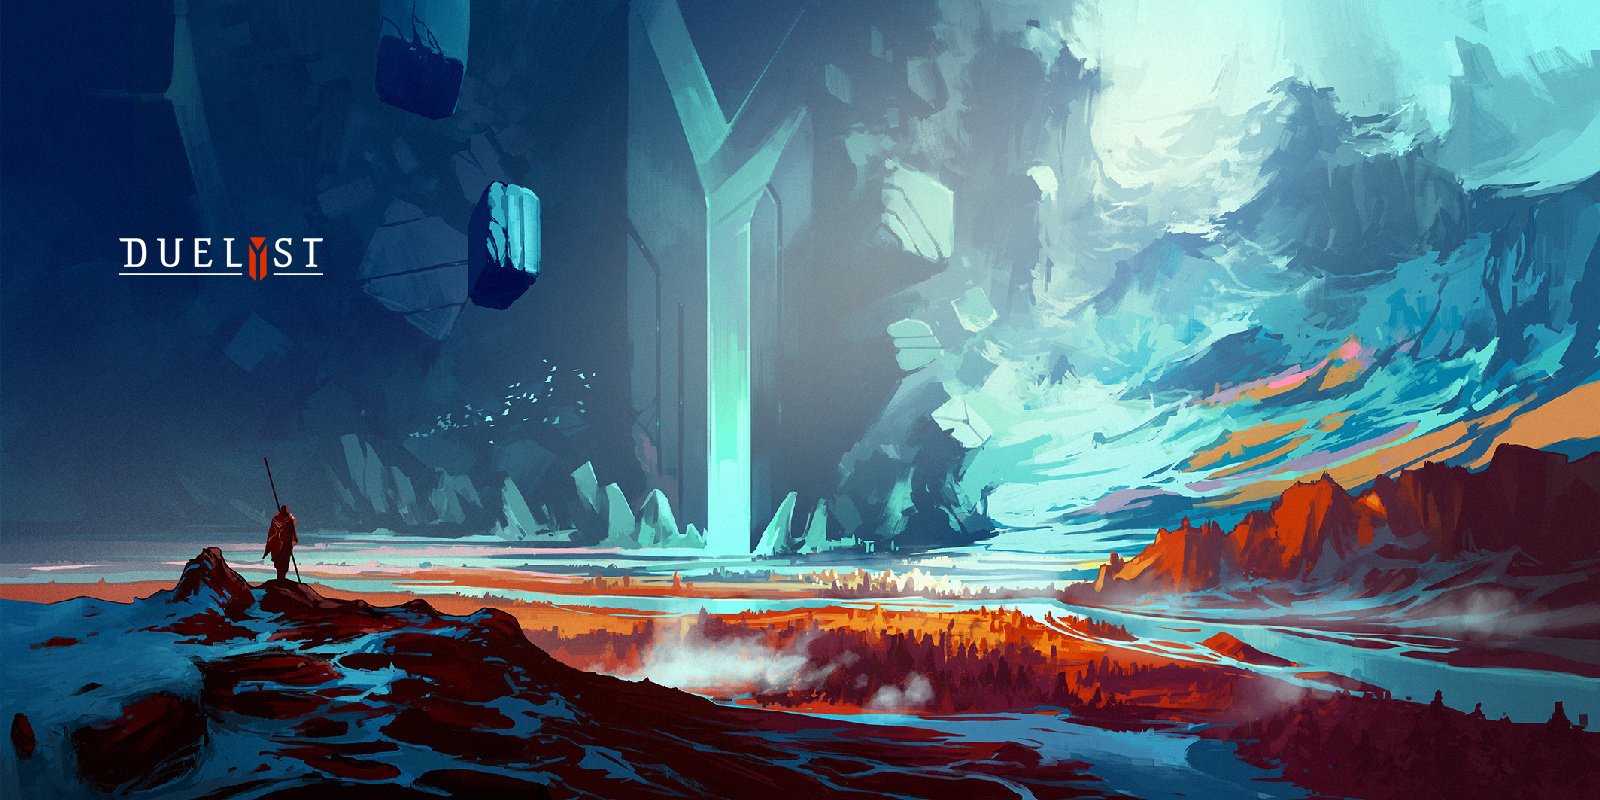
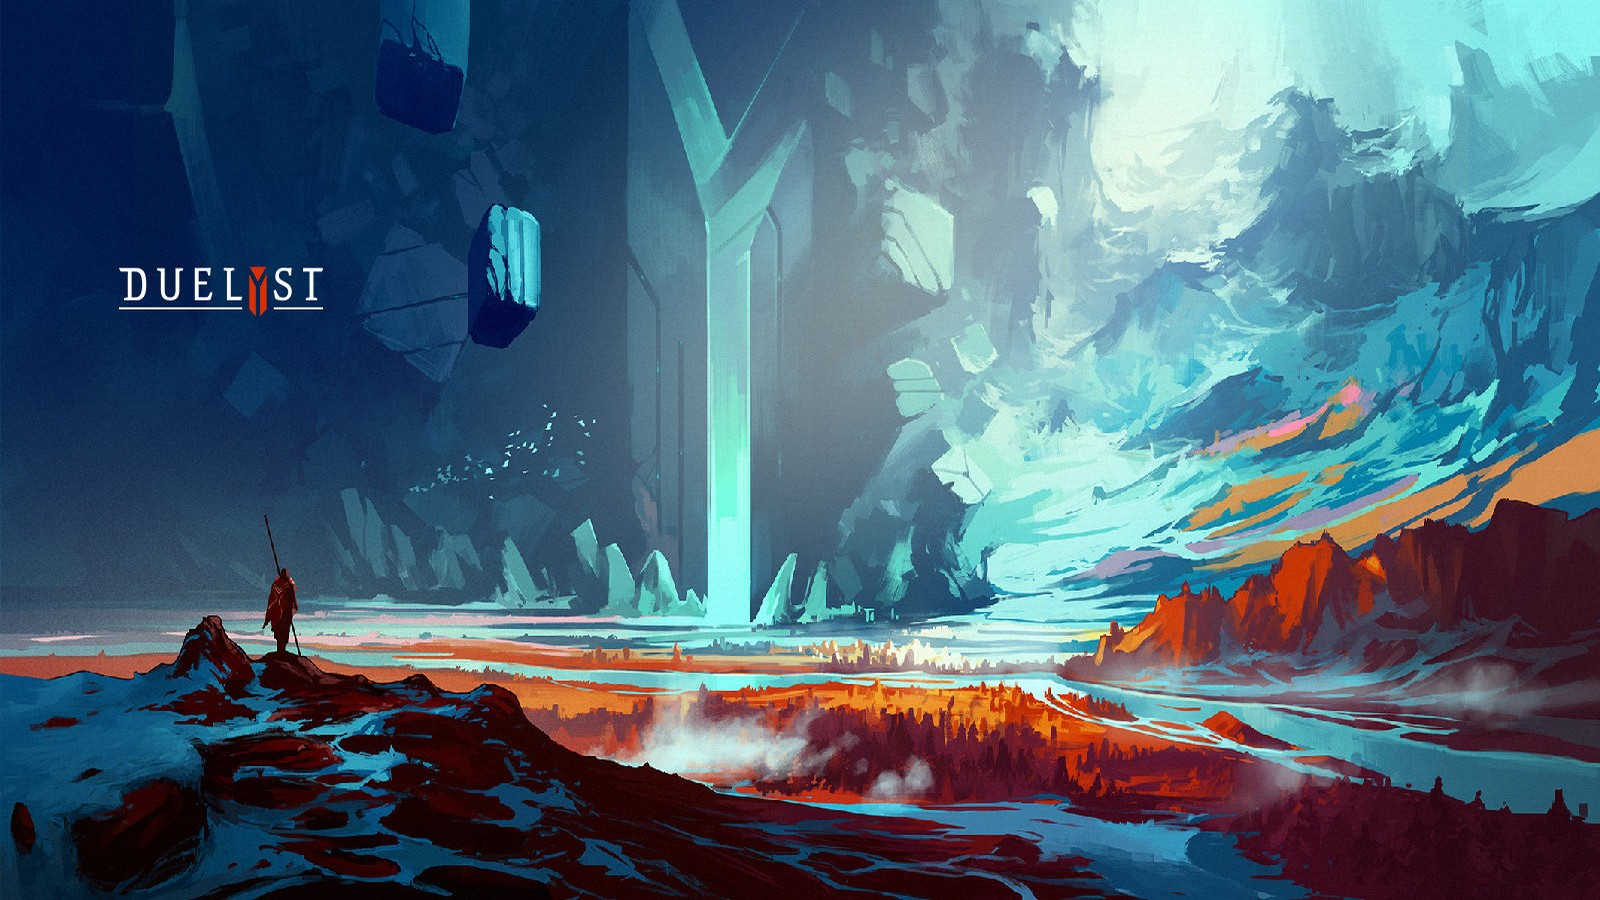
Resize duelyst background image to avoid strange transitions on landing page Fixed a few localization issues Fixed white email on white background for HS landing page Quicker mouse scroll on video when shift key is pressed Markdown blockquote now works properly

diff --git a/yo/app/views/landing/sport.html b/yo/app/views/landing/sport.html
@@ -226,7 +226,7 @@
 						<div style="position: absolute; left: -5000px;"><input type="text" name="b_97a00cb6ce6b2e5486876f29c_074f9f6027" tabindex="-1" value=""></div>
 						<div class="form-group">
 							<label class="sr-only" for="mce-EMAIL">Email</label>
-							<input type="email" name="EMAIL" class="form-control" id="mce-EMAIL" value="Your Email address" onfocus="if (this.value == this.defaultValue)
+							<input type="email" name="EMAIL" class="form-control" id="mce-EMAIL" value="{{ 'global.general.email' | translate }}" onfocus="if (this.value == this.defaultValue)
 										this.value = '';" onblur="if (this.value == '')
 													this.value = this.defaultValue;">
 							<button type="submit" class="btn-theme btn btn-lg" ng-click="notifyGa()" id="mc-embedded-subscribe">{{ 'global.landing.newsLetterButton' | translate }}</button>

diff --git a/yo/app/scripts/services/helpPopupConfig.js b/yo/app/scripts/services/helpPopupConfig.js
@@ -18,7 +18,7 @@ services.factory('HelpPopupConfig', ['$window', '$log', 'User',
 					}
 				},
 				fineScrolling: {
-					text: "You can scroll frame by frame by using the mousewheel on the time bar, letting you choose your timestamp with more precision",
+					text: "You can scroll frame by frame by using the mousewheel on the time bar, letting you choose your timestamp with more precision. You can scroll more quickly if you press the Shift key at the same time",
 					showCondition: function() {
 						return User.getNumberOfTimestamps() >= 2;
 					}

diff --git a/yo/app/scripts/directives/video/videoFineTimeControl.js b/yo/app/scripts/directives/video/videoFineTimeControl.js
@@ -11,6 +11,7 @@ app.directive('videoFineTimeControl', ['$log', '$parse',
 	            	// Detect the amount of scroll
 	            	var e = window.event || evt
 	            	var scrollAmount = parseInt(e.wheelDelta ? -e.wheelDelta : e.originalEvent.detail * 40);
+	            	if (e.shiftKey) scrollAmount *= 3;
 	            	
 	            	// Move the player very slightly depending on the amount scrolled
 	            	if (attrs.videoFineTimeControl) {

diff --git a/yo/app/styles/main.css b/yo/app/styles/main.css
@@ -19,6 +19,13 @@ a[ng-click] {
 	display: block;
 }
 
+blockquote {
+  font-size: inherit;
+  margin: 0 0 5px 0;
+  padding: 5px 10px;
+  border-left: 3px solid #eee;
+}
+
 .main {
 	background: url('https://lh3.googleusercontent.com/CB1q7HN0W8q09NAzbB6LRziZRzVHt1nlaC50uPkKErqOhGaN6GuIQpRnq5o0atLKXgCXPeb0nDTwqtpmhN5i=s0') 0 0 repeat;
 	width: 100%;

diff --git a/yo/app/scripts/directives/comment.js b/yo/app/scripts/directives/comment.js
@@ -263,7 +263,7 @@ app.directive('comment', ['User', '$log', 'Api', 'RecursionHelper', '$modal', '$
 				};
 
 				function escapeHtml(string) {
-				    return String(string).replace(/[<>]/g, function (s) {
+				    return String(string).replace(/[<]/g, function (s) {
 				      	return entityMap[s];
 				    });
 				}

diff --git a/yo/app/plugins/sports/hearthstone/hearthstone.css b/yo/app/plugins/sports/hearthstone/hearthstone.css
@@ -354,6 +354,10 @@
     color: #fff;
 }
 
+.hearthstone .landing-page .team-col a {
+    color: #337ab7;
+}
+
 
 /* =============
 ** Smaller device
